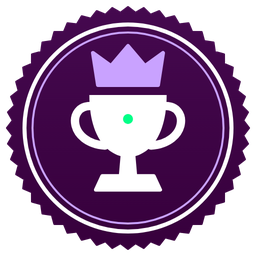
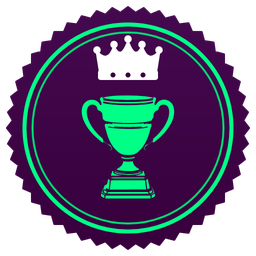
Logros v5: sellos verdes de Stan (normal 256 px + small 128 px bajo 56 px), los 13 sellos mapeados, vitrina de trofeos con AchievementBadge

Changed region(s): [[0.0625, 0.0625, 0.9375, 0.9375]]

diff --git a/src/content/logros-art.ts b/src/content/logros-art.ts
@@ -1,13 +1,57 @@
-// Arte de los logros (sellos de Stan). PROVISIONAL: copia de assets/sets/_v3/logros a 256 px, mientras se aprueba
-// el arte final. Para cambiarlo, reemplaza los PNG de assets/logros/ o apunta aquí a los nuevos: nada más los usa.
+// Arte de los logros: sellos verdes v5 de Stan (assets/sets/logros, aprobados por Rolando el 10 nov).
+// Normal = PNG de 256 px; small = variante simplificada de 128 px para listas o tamaños menores de 56 px.
+// Hay 13 sellos; hoy la app otorga 3 códigos (first_win, streak_5, tournament_champion). El resto queda
+// listo en logroArtById para cuando se sumen esos logros al dominio.
 import type { ImageSourcePropType } from 'react-native';
 import type { AchievementCode } from '../domain/types';
 
-export const logroArt: Record<AchievementCode, ImageSourcePropType> = {
-  first_win: require('../../assets/logros/primera-victoria.png'),
-  streak_5: require('../../assets/logros/racha-5.png'),
-  tournament_champion: require('../../assets/logros/campeon-torneo.png'),
+export type LogroArtId =
+  | 'primer-partido'
+  | 'primera-victoria'
+  | 'racha-3'
+  | 'racha-5'
+  | 'racha-10'
+  | 'partidos-10'
+  | 'partidos-50'
+  | 'partidos-100'
+  | 'invicto'
+  | 'remontada'
+  | 'campeon-torneo'
+  | 'lider-grupo'
+  | 'elo-100';
+
+type Art = { normal: ImageSourcePropType; small: ImageSourcePropType };
+
+export const logroArtById: Record<LogroArtId, Art> = {
+  'primer-partido': { normal: require('../../assets/logros/primer-partido.png'), small: require('../../assets/logros/small/primer-partido.png') },
+  'primera-victoria': { normal: require('../../assets/logros/primera-victoria.png'), small: require('../../assets/logros/small/primera-victoria.png') },
+  'racha-3': { normal: require('../../assets/logros/racha-3.png'), small: require('../../assets/logros/small/racha-3.png') },
+  'racha-5': { normal: require('../../assets/logros/racha-5.png'), small: require('../../assets/logros/small/racha-5.png') },
+  'racha-10': { normal: require('../../assets/logros/racha-10.png'), small: require('../../assets/logros/small/racha-10.png') },
+  'partidos-10': { normal: require('../../assets/logros/partidos-10.png'), small: require('../../assets/logros/small/partidos-10.png') },
+  'partidos-50': { normal: require('../../assets/logros/partidos-50.png'), small: require('../../assets/logros/small/partidos-50.png') },
+  'partidos-100': { normal: require('../../assets/logros/partidos-100.png'), small: require('../../assets/logros/small/partidos-100.png') },
+  invicto: { normal: require('../../assets/logros/invicto.png'), small: require('../../assets/logros/small/invicto.png') },
+  remontada: { normal: require('../../assets/logros/remontada.png'), small: require('../../assets/logros/small/remontada.png') },
+  'campeon-torneo': { normal: require('../../assets/logros/campeon-torneo.png'), small: require('../../assets/logros/small/campeon-torneo.png') },
+  'lider-grupo': { normal: require('../../assets/logros/lider-grupo.png'), small: require('../../assets/logros/small/lider-grupo.png') },
+  'elo-100': { normal: require('../../assets/logros/elo-100.png'), small: require('../../assets/logros/small/elo-100.png') },
 };
 
+/** Sello de cada logro que la app otorga hoy. */
+export const logroArtIdByCode: Record<AchievementCode, LogroArtId> = {
+  first_win: 'primera-victoria',
+  streak_5: 'racha-5',
+  tournament_champion: 'campeon-torneo',
+};
+
+/** Debajo de este tamaño (px) se usa la variante small. */
+export const SMALL_ART_BELOW = 56;
+
+export function logroArt(code: AchievementCode, size: number): ImageSourcePropType {
+  const art = logroArtById[logroArtIdByCode[code]];
+  return size < SMALL_ART_BELOW ? art.small : art.normal;
+}
+
 /** Si el arte todavía es provisional (para avisos internos, nunca en la UI). */
-export const logroArtIsPlaceholder = true;
+export const logroArtIsPlaceholder = false;

diff --git a/src/app/(app)/trofeos.tsx b/src/app/(app)/trofeos.tsx
@@ -1,10 +1,11 @@
 import { StyleSheet, View } from 'react-native';
 import { useApp } from '../../state/app-provider';
 import { useQuery } from '../../state/use-query';
+import { AchievementBadge } from '../../ui/achievement-badge';
 import { Gate } from '../../ui/controls';
 import { formatDay } from '../../ui/format';
 import { Panel, Screen, Top } from '../../ui/screen';
-import { colors, radius, space } from '../../ui/theme';
+import { colors, layout } from '../../ui/theme';
 import { T } from '../../ui/text';
 
 export default function Trophies() {
@@ -16,16 +17,14 @@ export default function Trophies() {
       <Gate query={query}>
         {(trophies) => (
           <>
-            {trophies.map((trophy) => (
+            {trophies.map((trophy, index) => (
               <Panel key={trophy.code}>
                 <View style={styles.row}>
-                  <View style={[styles.medal, !trophy.earned && styles.locked]}>
-                    <T variant="title">{trophy.earned ? 'Sí' : '·'}</T>
-                  </View>
+                  <AchievementBadge code={trophy.code} unlocked={trophy.earned} index={index} size={64} />
                   <View style={styles.flex}>
                     <T variant="title">{trophy.title}</T>
                     <T color={colors.muted}>{trophy.description}</T>
-                    <T variant="tiny" color={trophy.earned ? colors.gold : colors.faint}>
+                    <T variant="tiny" color={trophy.earned ? colors.accentText : colors.faint}>
                       {trophy.earned && trophy.earnedAt ? `Lo conseguiste el ${formatDay(trophy.earnedAt)}` : 'Bloqueado'}
                     </T>
                   </View>
@@ -40,15 +39,6 @@ export default function Trophies() {
 }
 
 const styles = StyleSheet.create({
-  row: { flexDirection: 'row', gap: space.md, alignItems: 'center' },
-  medal: {
-    width: 52,
-    height: 52,
-    borderRadius: radius.md,
-    backgroundColor: colors.gold,
-    alignItems: 'center',
-    justifyContent: 'center',
-  },
-  locked: { backgroundColor: colors.surface2, borderRadius: 14 },
-  flex: { flex: 1, gap: space.xs },
+  row: { flexDirection: 'row', gap: layout.field, alignItems: 'center' },
+  flex: { flex: 1, gap: layout.inline },
 });

diff --git a/src/ui/achievement-badge.test.ts b/src/ui/achievement-badge.test.ts
@@ -6,14 +6,32 @@ import { trophyCatalog } from '../content/trophies';
 
 const here = dirname(fileURLToPath(import.meta.url));
 const mapFile = resolve(here, '../content/logros-art.ts');
+const source = readFileSync(mapFile, 'utf8');
 
-describe('arte de logros (mapa único, reemplazable)', () => {
-  it('cada logro del catálogo apunta a un PNG que existe', () => {
-    const source = readFileSync(mapFile, 'utf8');
+function artIdFor(code: string): string {
+  const match = source.match(new RegExp(`${code}: '([a-z0-9-]+)'`));
+  expect(match, code).not.toBeNull();
+  return match![1];
+}
+
+describe('arte de logros v5 (mapa único, reemplazable)', () => {
+  it('cada logro del catálogo apunta a un sello con PNG normal y small que existen', () => {
     for (const trophy of trophyCatalog) {
-      const match = source.match(new RegExp(`${trophy.code}: require\\('([^']+)'\\)`));
-      expect(match, trophy.code).not.toBeNull();
-      expect(existsSync(resolve(dirname(mapFile), match![1]))).toBe(true);
+      const id = artIdFor(trophy.code);
+      for (const sub of ['', 'small/']) {
+        const path = `../../assets/logros/${sub}${id}.png`;
+        expect(source.includes(`require('${path}')`), `${id} ${sub}`).toBe(true);
+        expect(existsSync(resolve(dirname(mapFile), path)), path).toBe(true);
+      }
     }
+  });
+
+  it('los 13 sellos del set están mapeados', () => {
+    const ids = [...source.matchAll(/require\('\.\.\/\.\.\/assets\/logros\/([a-z0-9-]+)\.png'\)/g)].map((m) => m[1]);
+    expect(new Set(ids).size).toBe(13);
+  });
+
+  it('ya no es arte provisional', () => {
+    expect(source).toContain('logroArtIsPlaceholder = false');
   });
 });

diff --git a/src/ui/achievement-badge.tsx b/src/ui/achievement-badge.tsx
@@ -159,9 +159,10 @@ export function AchievementBadge({
     return release;
   }, [moving]);
 
-  const art = logroArt[code];
+  // Menos de 56 px: variante small (marco simple, silueta maciza) para que se lea en listas.
+  const art = logroArt(code, size);
   return (
-    <View style={[styles.wrap, { width: Math.max(size, 96) }]} accessibilityLabel={`${title ?? code}${unlocked ? '' : ' (bloqueado)'}`}>
+    <View style={[styles.wrap, { width: title || detail ? Math.max(size, 96) : size }]} accessibilityLabel={`${title ?? code}${unlocked ? '' : ' (bloqueado)'}`}>
       <View ref={ref} style={[styles.badge, { width: size, height: size, borderRadius: size / 2 }, unlocked ? styles.on : styles.off]}>
         <Image
           source={art}
